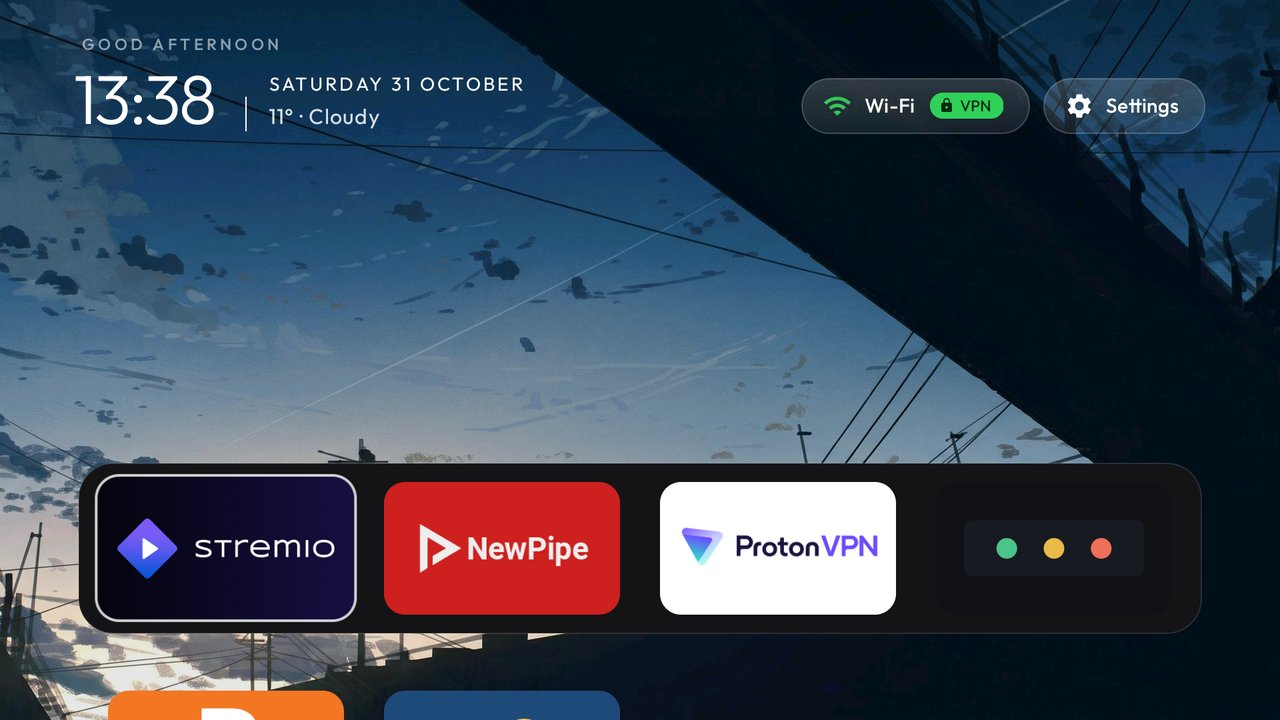
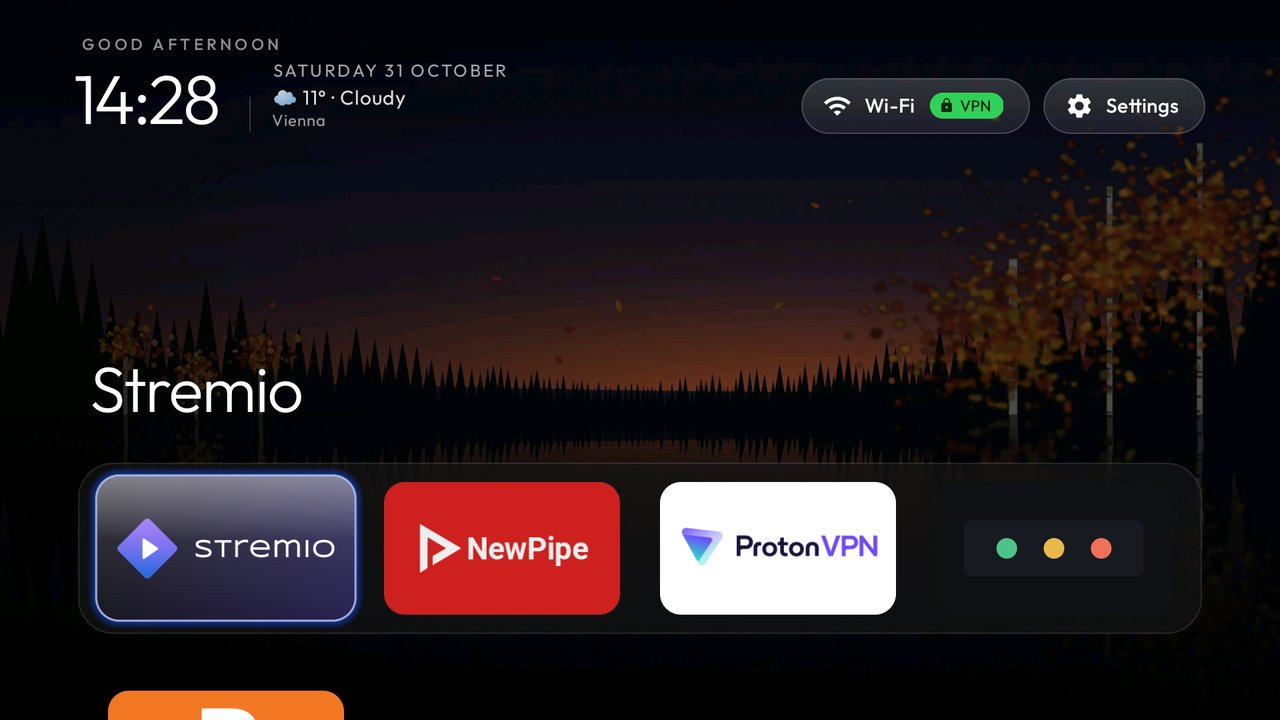
Launcher: the weather's condition glyph, and the date block kept inside the clock's height (AFTKRT)
The Weather add-on's provider adds a glyph column (the condition as one emoji by WMO code); the
launcher puts it before the words. The date, weather and place block is as tall as the clock and centred
on it, with the date at 13sp and the weather at 15sp, so three lines no longer grow up into the greeting.

Tested on the Fire TV Stick 4K Max 2nd gen: cloud glyph before 11° · Cloudy, Vienna under it, the block
between the clock's top and baseline. APK 512,437 B.

diff --git a/addons/weather/app/src/main/java/io/github/sumyabazar1/weather/WeatherProvider.java b/addons/weather/app/src/main/java/io/github/sumyabazar1/weather/WeatherProvider.java
@@ -20,7 +20,7 @@ import java.util.concurrent.atomic.AtomicBoolean;
  */
 public final class WeatherProvider extends ContentProvider {
     private static final String CACHE = "now";
-    private static final String[] COLUMNS = {"text", "temp_c", "sky", "place", "updated"};
+    private static final String[] COLUMNS = {"text", "temp_c", "sky", "place", "updated", "glyph"};
     private static final AtomicBoolean fetching = new AtomicBoolean();
 
     @Override
@@ -35,10 +35,11 @@ public final class WeatherProvider extends ContentProvider {
         MatrixCursor out = new MatrixCursor(COLUMNS);
         if (!place.contains("lat")) return out;
         long updated = cache.getLong("updated", 0);
-        if (System.currentTimeMillis() - updated > Forecast.REFRESH_MS) refresh(place, cache);
+        // Older than the refresh interval, or cached by a build without the glyph column: fetch again.
+        if (System.currentTimeMillis() - updated > Forecast.REFRESH_MS || !cache.contains("glyph")) refresh(place, cache);
         if (updated > 0) {
             out.addRow(new Object[]{cache.getString("text", ""), cache.getInt("temp_c", 0),
-                    cache.getString("sky", ""), place.getString("name", ""), updated});
+                    cache.getString("sky", ""), place.getString("name", ""), updated, cache.getString("glyph", "")});
         }
         return out;
     }
@@ -53,7 +54,7 @@ public final class WeatherProvider extends ContentProvider {
                 Forecast.Report r = Forecast.fetch(lat, lon, Forecast.MIN_DAYS);
                 String sky = getContext().getString(Forecast.sky(r.code, r.day));
                 cache.edit().putString("text", String.format(Locale.ROOT, "%d° · %s", r.tempC, sky))
-                        .putInt("temp_c", r.tempC).putString("sky", sky)
+                        .putInt("temp_c", r.tempC).putString("sky", sky).putString("glyph", glyph(r.code, r.day))
                         .putLong("updated", System.currentTimeMillis()).apply();
             } catch (Exception ignored) {
                 // Offline or refused: the cached row stays, the next query tries again.
@@ -61,6 +62,18 @@ public final class WeatherProvider extends ContentProvider {
                 fetching.set(false);
             }
         }, "weather-now").start();
+    }
+
+    /** The condition as one emoji, by the WMO code Open-Meteo gives (after snowIfCold): the "glyph" column. */
+    static String glyph(int code, boolean day) {
+        if (code == 0) return day ? "\u2600\uFE0F" : "\uD83C\uDF19";            // sun, moon
+        if (code <= 2) return day ? "\uD83C\uDF24\uFE0F" : "\u2601\uFE0F";     // sun behind cloud, cloud
+        if (code == 3) return "\u2601\uFE0F";
+        if (code == 45 || code == 48) return "\uD83C\uDF2B\uFE0F";               // fog
+        if (code >= 71 && code <= 77 || code == 85 || code == 86) return "\uD83C\uDF28\uFE0F"; // snow cloud
+        if (code >= 95) return "\u26C8\uFE0F";                                    // thunder
+        if (code >= 51) return "\uD83C\uDF27\uFE0F";                             // rain cloud
+        return "\u2601\uFE0F";
     }
 
     @Override public String getType(Uri uri) { return "vnd.android.cursor.item/vnd.weather.now"; }

diff --git a/launcher/app/src/main/java/com/gathin/tvhome/WeatherLine.java b/launcher/app/src/main/java/com/gathin/tvhome/WeatherLine.java
@@ -20,17 +20,20 @@ final class WeatherLine {
 
     static void refresh(ContentResolver resolver, String uri, TextView line) {
         new Thread(() -> {
-            String text = null, place = null;
-            try (Cursor c = resolver.query(Uri.parse(uri), new String[]{"text", "place"}, null, null, null)) {
+            String text = null, place = null, glyph = null;
+            try (Cursor c = resolver.query(Uri.parse(uri), new String[]{"text", "place", "glyph"}, null, null, null)) {
                 if (c != null && c.moveToFirst()) {
-                    int t = c.getColumnIndex("text"), p = c.getColumnIndex("place");
+                    int t = c.getColumnIndex("text"), p = c.getColumnIndex("place"), g = c.getColumnIndex("glyph");
                     text = t >= 0 ? c.getString(t) : null;
                     place = p >= 0 ? c.getString(p) : null;
+                    glyph = g >= 0 ? c.getString(g) : null;
                 }
             } catch (RuntimeException ignored) {
                 // The provider is not installed or refused: no line.
             }
-            final String weather = text == null || text.trim().isEmpty() ? null : text.trim();
+            // The condition's emoji (the provider's glyph column) before the words, when it has one.
+            final String weather = text == null || text.trim().isEmpty() ? null
+                    : (glyph == null || glyph.trim().isEmpty() ? "" : glyph.trim() + " ") + text.trim();
             final String where = place == null || place.trim().isEmpty() ? null : place.trim();
             line.post(() -> {
                 if (weather == null) {

diff --git a/addons/weather/README.md b/addons/weather/README.md
@@ -33,7 +33,7 @@ Set in `app/src/main/res/values/options.xml` before building. With the defaults 
 ## The weather for the launcher
 
 The app also answers `content://io.github.sumyabazar1.weather/now` with one row: `text` ("12° · Cloudy"), `temp_c`,
-`sky`, `place` and `updated` (epoch milliseconds), from its own cache. A query older than 30 minutes starts one fetch
+`sky`, `place`, `updated` (epoch milliseconds) and `glyph` (the condition as one emoji), from its own cache. A query older than 30 minutes starts one fetch
 in the background, so the next query is fresh; no row until a city has been chosen. The Clean Your TV launcher's
 `weather_provider` key points at it and shows `text` under the clock. Any app on the TV can read it (no permission):
 it is the city name and the weather the app already shows.
